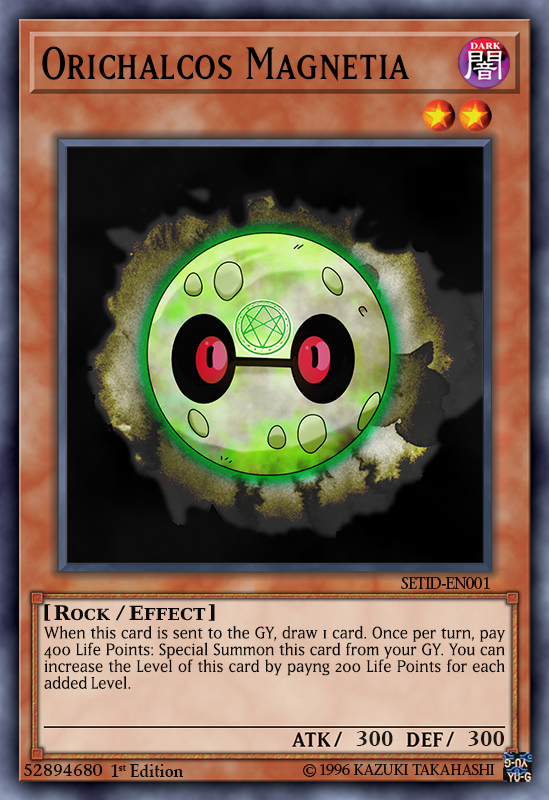
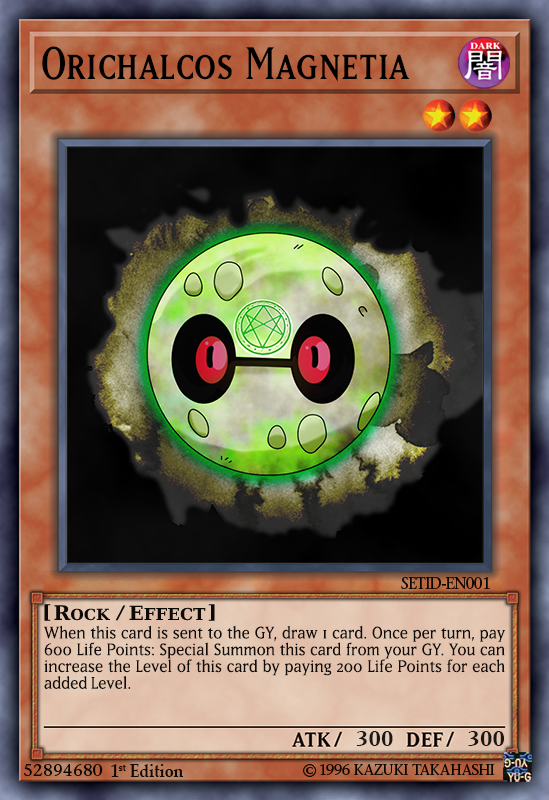
Update

Changed region(s): [[0.1548, 0.7812, 0.867, 0.8438], [0.0929, 0.8125, 0.1239, 0.8438]]

diff --git a/Scripts/cards_db.js b/Scripts/cards_db.js
@@ -1245,7 +1245,7 @@ var CARDS_DB =
             "ATK": 300,
             "DEF": 300,
             "Attribute": "DARK",
-            "Effect": "When this card is sent to the GY, draw 1 card. Once per turn, pay 400 Life Points: Special Summon this card from your GY. You can increase the Level of this card by payng 200 Life Points for each added Level."
+            "Effect": "When this card is sent to the GY, draw 1 card. Once per turn, pay 600 Life Points: Special Summon this card from your GY. You can increase the Level of this card by paying 200 Life Points for each added Level."
         }
     },
     {
